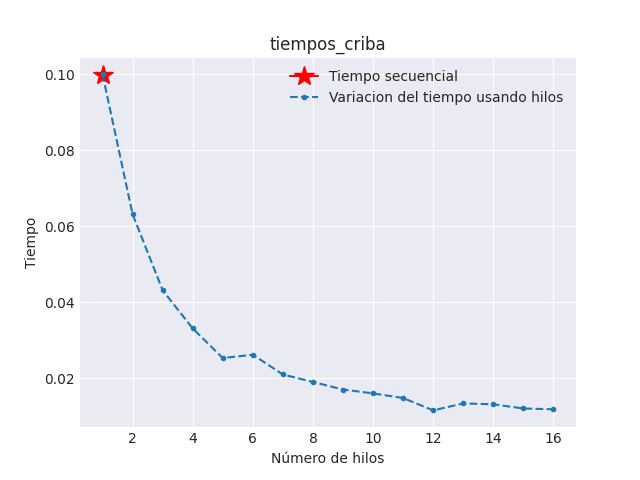
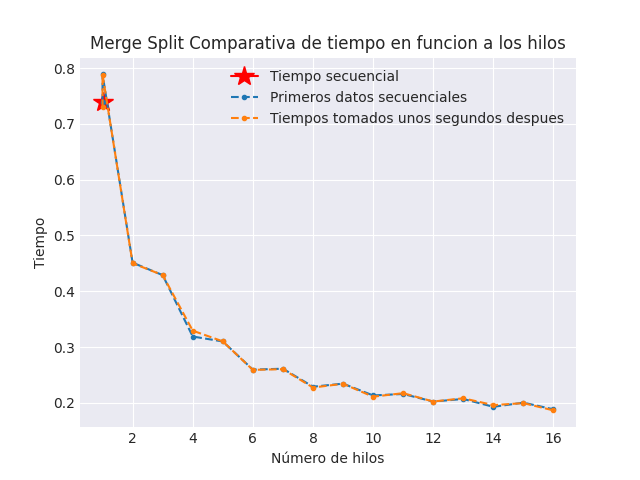
cambio en las graficaas

diff --git a/graficar.py b/graficar.py
@@ -1,8 +1,3 @@
-'''
-    Archivo para crear graficas, es solo para ejecutarse en computadora personal.
-# param 1: Bandera que dice si se usan los ultimos datos para graficar  
-'''
-
 import pandas as pd
 import numpy as np
 import matplotlib.pyplot as plt
@@ -16,10 +11,19 @@ import easygui as eg
 
 
 #----------------------------------------------------------------------------
-#-------------------- Se busca el archivo con los datos ---------------------
+#-------------------- Se buscan los archivo con los datos ---------------------
 #----------------------------------------------------------------------------
 opcion = "s"
 direcciones_datos = []
+nombre_datos = []
+etiquetas_datos = []
+
+print("Porfavor eliga el archivo con los datos secuenciales ...")
+archivos_datos_secuencial = eg.fileopenbox(
+    msg="Elije el archivo con los tiempos",
+    title="Control: fileopenbox",
+    default='//sshfs/ppd@148.225.111.150/juventino_velasquez_ocotillo/')
+ 
 
 while(opcion == "s" ):
     print("Porfavor este atento de la ventana emergente ...")
@@ -28,16 +32,20 @@ while(opcion == "s" ):
         title="Control: fileopenbox",
         default='//sshfs/ppd@148.225.111.150/juventino_velasquez_ocotillo/')
     direcciones_datos.append(direccion)
+    descripcion_datos = input("Descripcion con la que los datos aparecen en la grafica: ")
+    etiquetas_datos.append(descripcion_datos)
     opcion = input("Quieres añadir más archivos? (s/n) : ")
-
 
 #----------------------------------------------------------------------------
 #------------------------ Se prepara la informacion  ------------------------
 #----------------------------------------------------------------------------
-tiempos_secuenciales = []
 tiempos_paralelos = []
 tiempos_speedup = []
 labels_paralelos = []
+etiquetas_bien_ordenadas = []
+
+tiempo_ejecucion_secuencial = pd.read_csv(archivos_datos_secuencial , sep=',',  names=['nh','tiempo','aux'])
+tiempo_secuencial = tiempo_ejecucion_secuencial['tiempo'][0]
 
 while(len(direcciones_datos) != 0):
     
@@ -46,52 +54,50 @@ while(len(direcciones_datos) != 0):
     
     #Datos en crudo
     tiempos_ejecucion = pd.read_csv(direccion_resultados , sep=',',  names=['nh','tiempo','aux'])
+    etiquetas_bien_ordenadas.append(etiquetas_datos.pop())
 
     #Datos para tiempos de ejecuccion
-    tiempo_secuencial_local = tiempos_ejecucion['tiempo'][0]
-    tiempos_secuenciales.append(tiempo_secuencial_local)
-    
-    tiempo_paralelo_local = tiempos_ejecucion['tiempo'][1:]
+    tiempo_paralelo_local = tiempos_ejecucion['tiempo'][:]
     tiempos_paralelos.append(tiempo_paralelo_local)
-
-    labels_paralelos.append(tiempos_ejecucion['nh'][1:])
-
+    labels_paralelos.append(tiempos_ejecucion['nh'][:])
+    
     #Datos para el speedup
     tiempo_speedup = []
     for tiempo in tiempo_paralelo_local:
-        tiempo_speedup.append(tiempo_secuencial_local / tiempo)
+        tiempo_speedup.append(tiempo_secuencial / tiempo)
     
     tiempos_speedup.append(tiempo_speedup)
 
 #----------------------------------------------------------------------------
 #------------------------- Se grafican los tiempos --------------------------
 #----------------------------------------------------------------------------
-
 titulo_tiempos = input("Titulo de la grafica de tiempos: ")
 titulo_speedup = input("Titulo de la grafica del speedup: ")
+
 with plt.style.context('seaborn-darkgrid'):
     with plt.style.context('seaborn-darkgrid'):
         diagrama_speedup, grafica_speedup = plt.subplots(1)
         diagrama_tiempos , grafica_tiempos = plt.subplots(1)
+        
+        grafica_tiempos.plot(1,tiempo_secuencial,
+                    color='r',
+                    marker='*',
+                    markersize=15, 
+                    label = 'Tiempo secuencial')
 
-        while len(tiempos_secuenciales) != 0  :
+        while len(tiempos_paralelos) != 0  :
 #----------------------------------------------------------------------------
 #-------------------------- Se grafica el tiempo ---------------------------
 #----------------------------------------------------------------------------
-            tiempo_secuencial = tiempos_secuenciales.pop()
             tiempo_paralelo = tiempos_paralelos.pop()
             labels_paralelo = labels_paralelos.pop() 
             labels_speedup = labels_paralelo
             tiempo_speedup = tiempos_speedup.pop() 
+            etiqueta = etiquetas_bien_ordenadas.pop() 
 
-            grafica_tiempos.plot(1,tiempo_secuencial,
-                        color='r',
-                        marker='*',
-                        markersize=15, 
-                        label = 'Tiempo secuencial')
             grafica_tiempos.plot(labels_paralelo ,tiempo_paralelo ,
                         marker='.',
-                        label='Variacion del tiempo usando hilos',
+                        label=etiqueta,
                         linestyle='dashed')
             grafica_tiempos.set_xlabel("Número de hilos")
             grafica_tiempos.set_ylabel("Tiempo")
@@ -102,7 +108,7 @@ with plt.style.context('seaborn-darkgrid'):
 #-------------------------- Se grafica el speedup ---------------------------
 #----------------------------------------------------------------------------
             grafica_speedup.plot(labels_speedup ,tiempo_speedup ,
-                        label='Speedup segun el numero de hilos')
+                        label=etiqueta)
             grafica_speedup.set_xlabel("Número de hilos")
             grafica_speedup.set_ylabel("SpeedUp")
             grafica_speedup.set_title(titulo_speedup)
